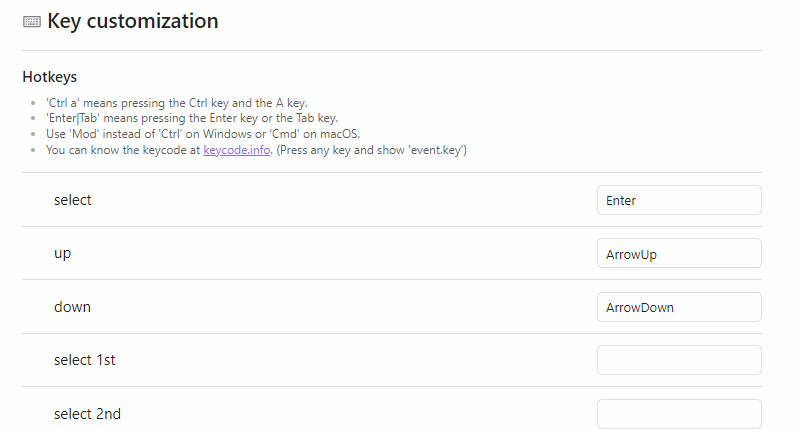
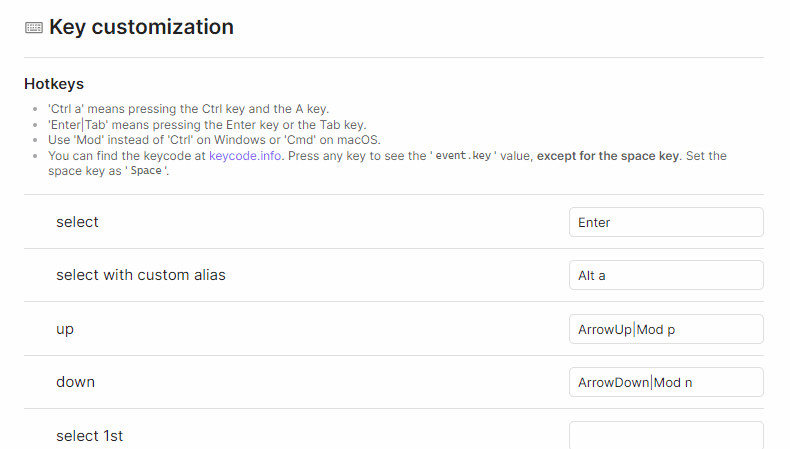
v10.2.0

diff --git a/docs/4. Options/4.3. Key customization/⚙ Hotkeys.md b/docs/4. Options/4.3. Key customization/⚙ Hotkeys.md
@@ -7,7 +7,7 @@ It allows for the setting of hotkeys for popup commands.
 - `Ctrl a` means pressing the `Ctrl` key and the `A` key
 - `Enter|Tab` means pressing the `Enter` key or the `Tab` key
 - Use `Mod` instead of `Ctrl` on Windows or `Cmd` on macOS
-- You can know the keycode at [keycode.info](https://keycode.info/) (Press any key and show `event.key`)
+- You can find the keycode at [keycode.info](https://keycode.info/). Press any key to see the `event.key` value, **except for the space key.** Set the space key as `'Space'`.
 
 | Command                  | Default hotkey |
 | ------------------------ | -------------- |
@@ -33,7 +33,8 @@ It allows for the setting of hotkeys for popup commands.
 
 - [Feature Request: tab *and* return should accept a completion #138](https://github.com/tadashi-aikawa/obsidian-various-complements-plugin/issues/138)
 - [Feature Request: Two-Step Completions #156](https://github.com/tadashi-aikawa/obsidian-various-complements-plugin/issues/156)
-- [[FR] Support Ctrl+J and Ctrl+K even on macOS #176](https://github.com/tadashi-aikawa/obsidian-various-complements-plugin/issues/176)
+- [FR: Support Ctrl+J and Ctrl+K even on macOS #176](https://github.com/tadashi-aikawa/obsidian-various-complements-plugin/issues/176)
+- [Feature Request: Space key to select suggestion #112](https://github.com/tadashi-aikawa/obsidian-various-complements-plugin/issues/112)
 
 ## Since
 
